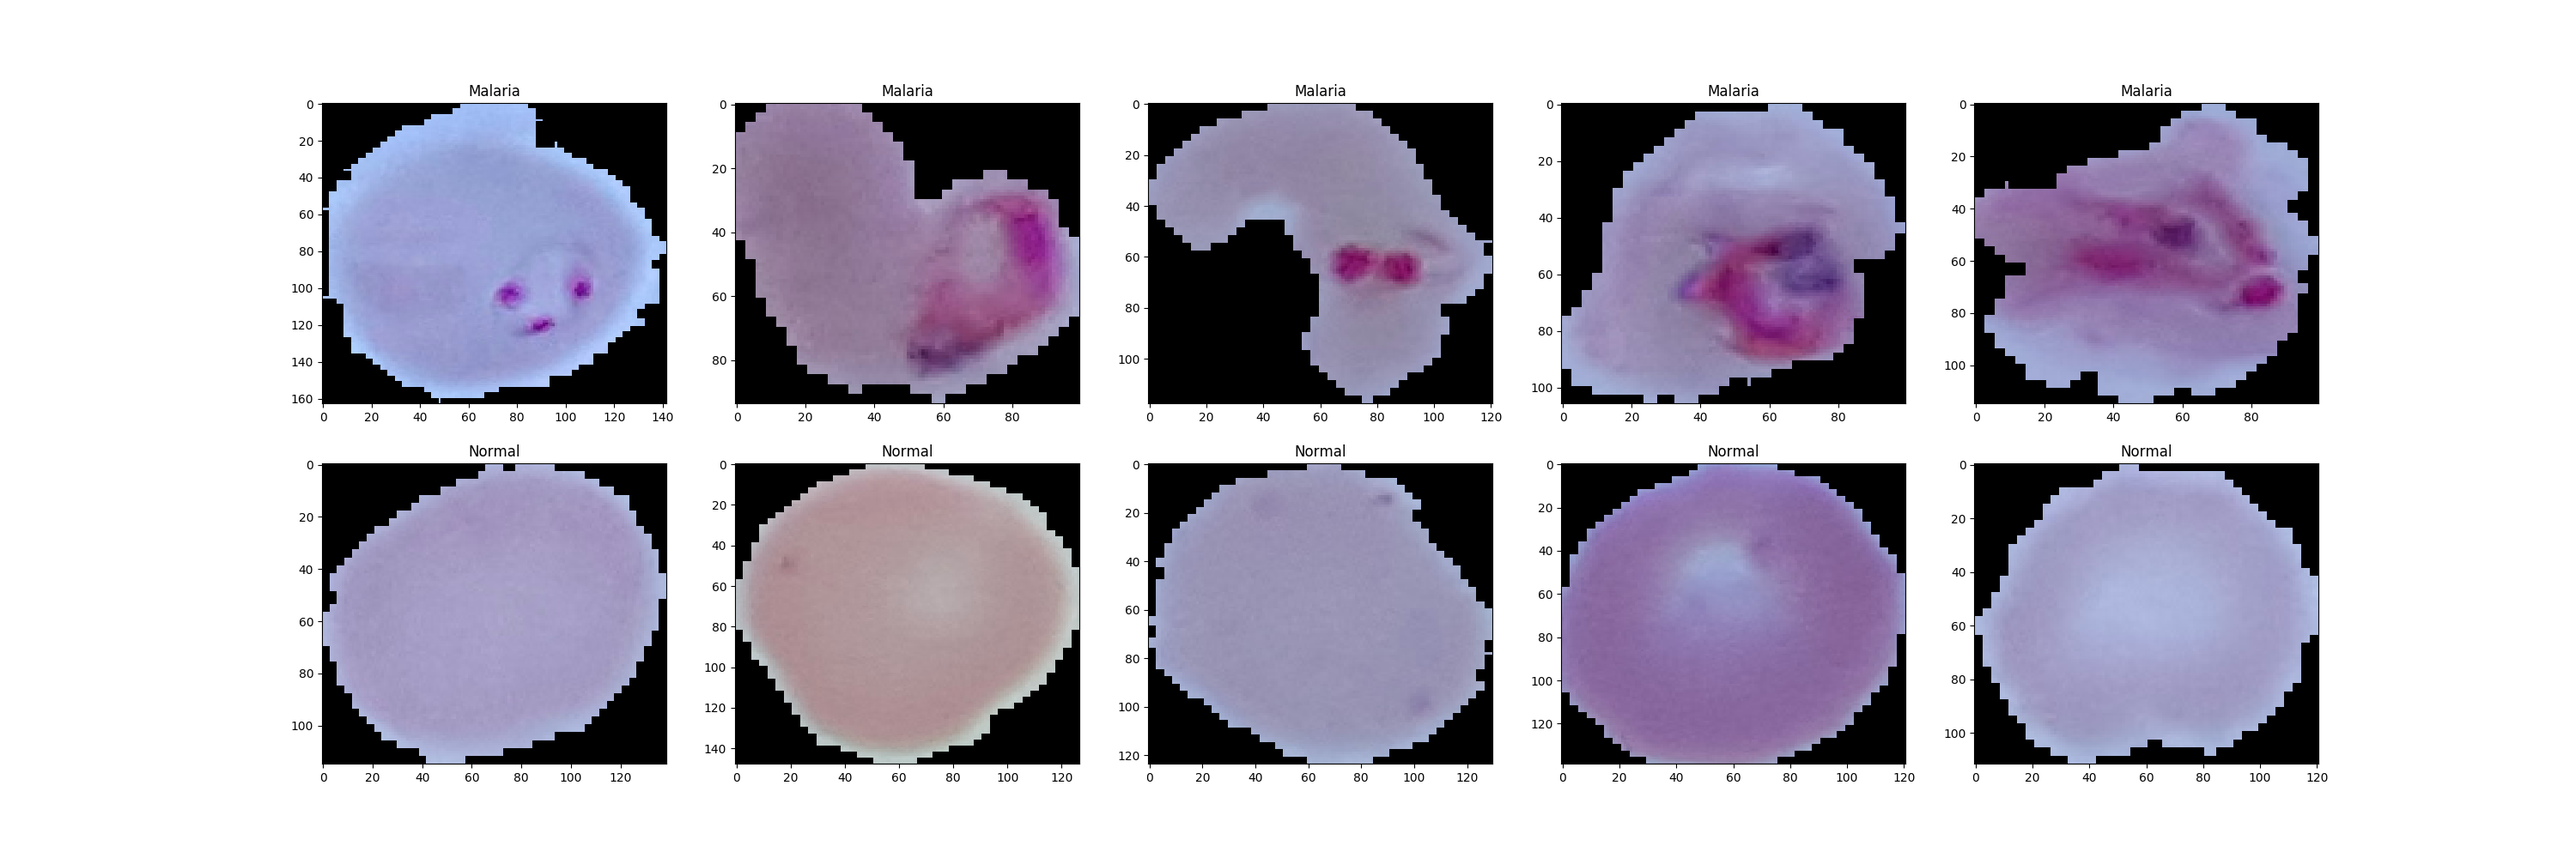
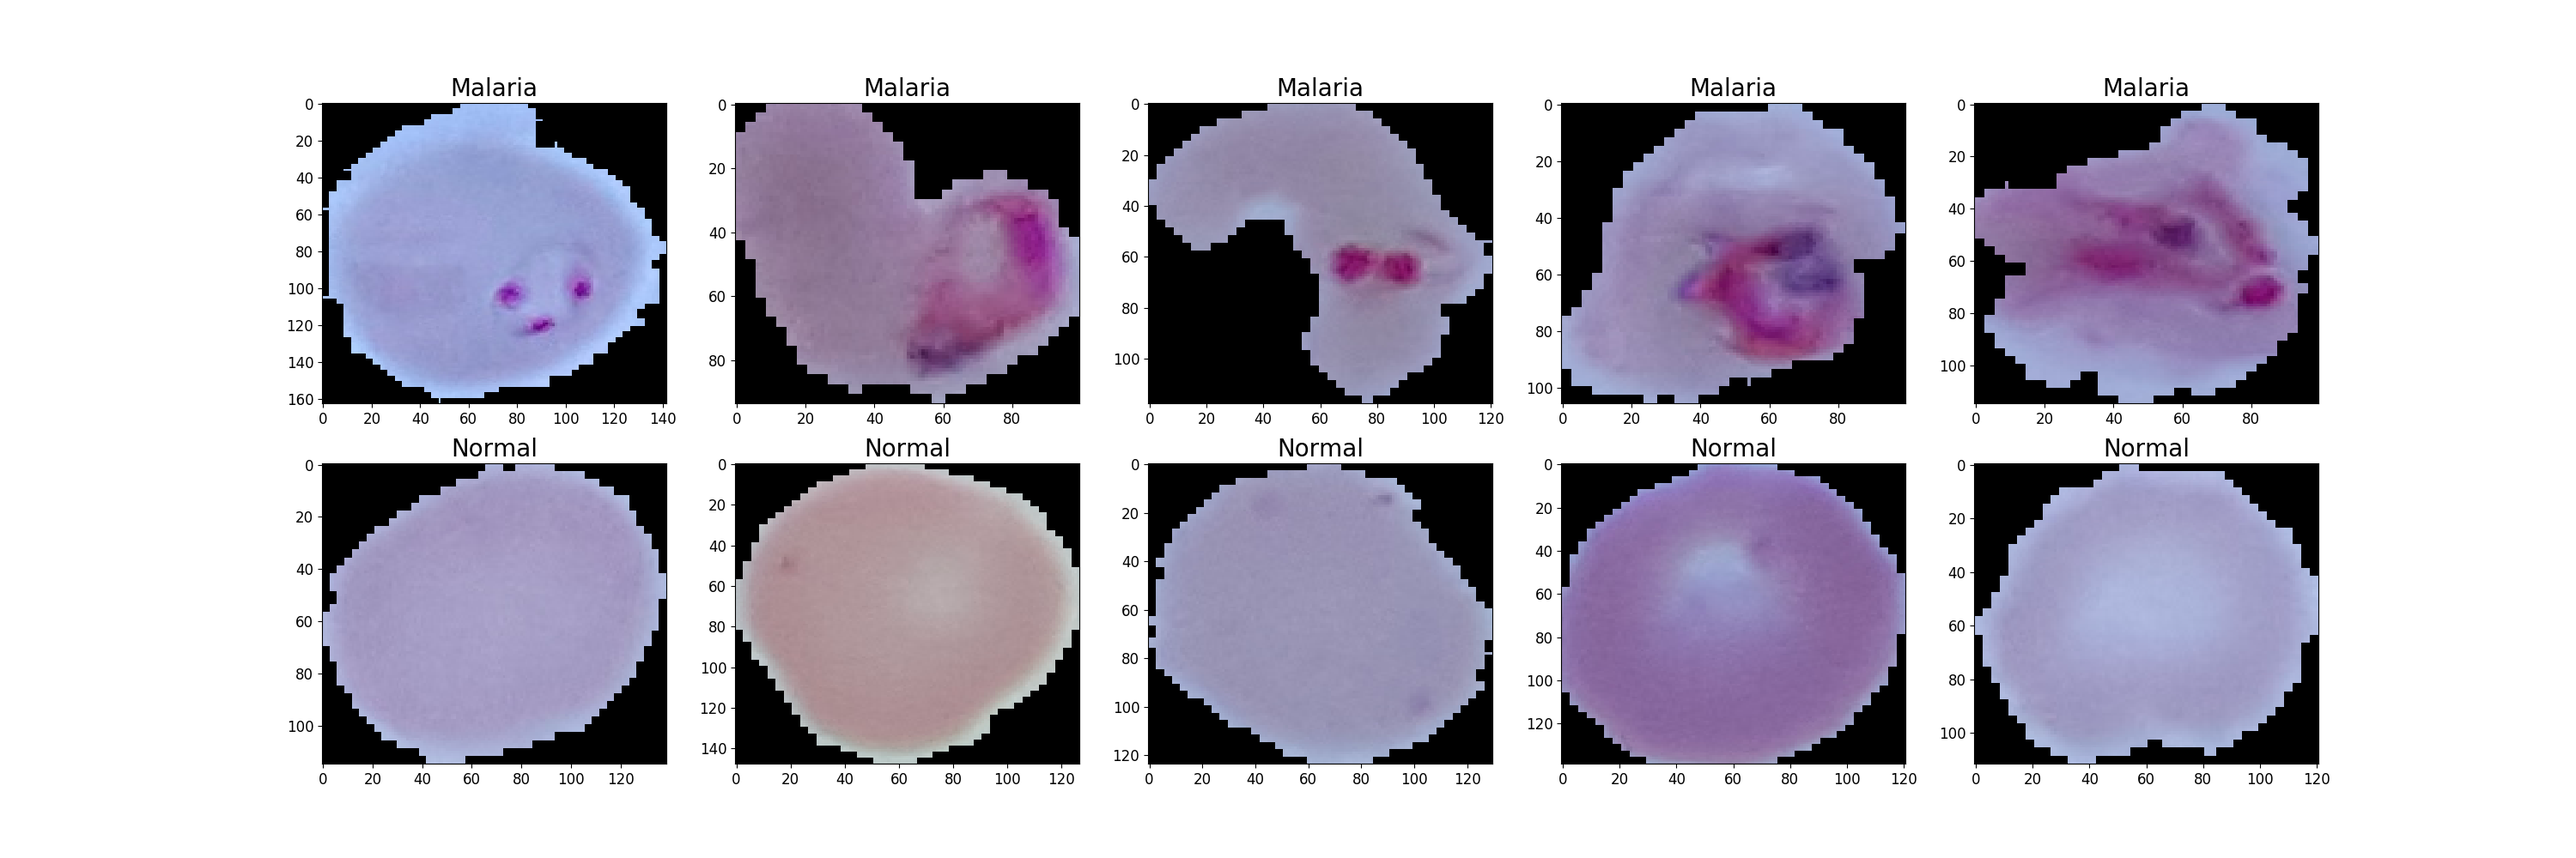
Re-arranged axis

diff --git a/plot_images.py b/plot_images.py
@@ -8,7 +8,15 @@ non_malaria = Path("./cell_images/non-malaria")
 malaria = malaria.glob("*.png")
 non_malaria = non_malaria.glob("*.png")
 samples = list(malaria) + list(non_malaria)
-print(samples)
+
+
+SMALL_SIZE = 12
+BIG_SIZE = 20
+
+plt.rc('axes', titlesize=BIG_SIZE)     # fontsize of the axes title
+plt.rc('xtick', labelsize=SMALL_SIZE)    # fontsize of the tick labels
+plt.rc('ytick', labelsize=SMALL_SIZE)    # fontsize of the tick labels
+
 f, ax = plt.subplots(2,5, figsize=(30,10))
 for i in range(10):
     img = cv2.imread(str(samples[i]))
@@ -19,4 +27,4 @@ for i in range(10):
         ax[i//5, i%5].set_title("Normal")
     ax[i//5, i%5].axis()
     ax[i//5, i%5].set_aspect('auto')
-plt.savefig("images.png")
+plt.savefig("plotted_images.png")
